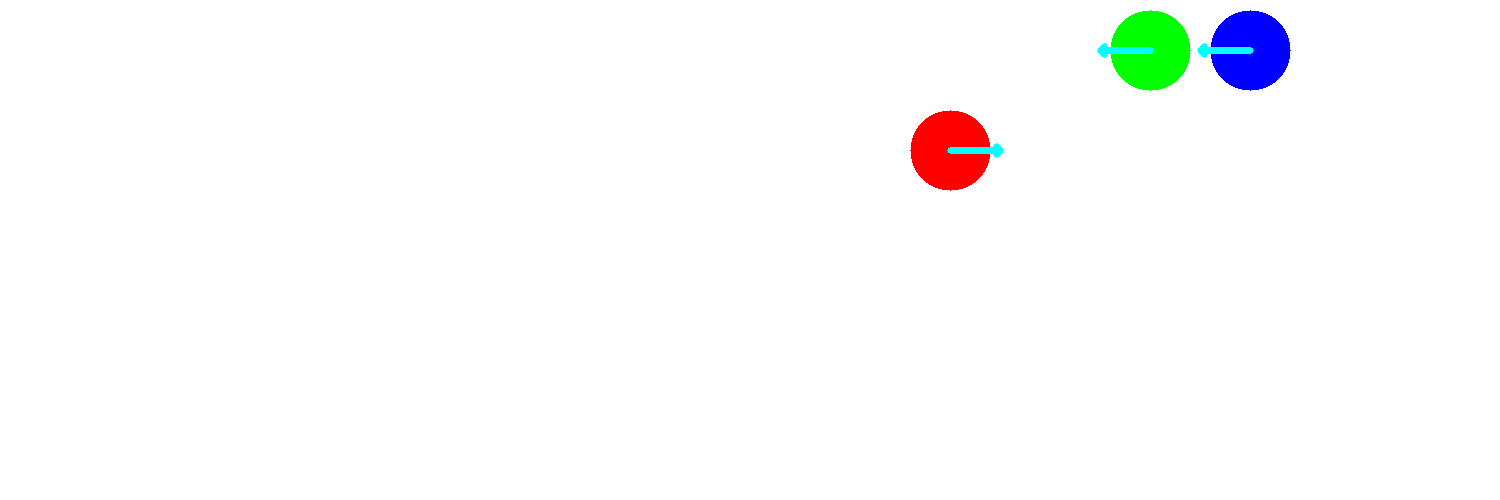
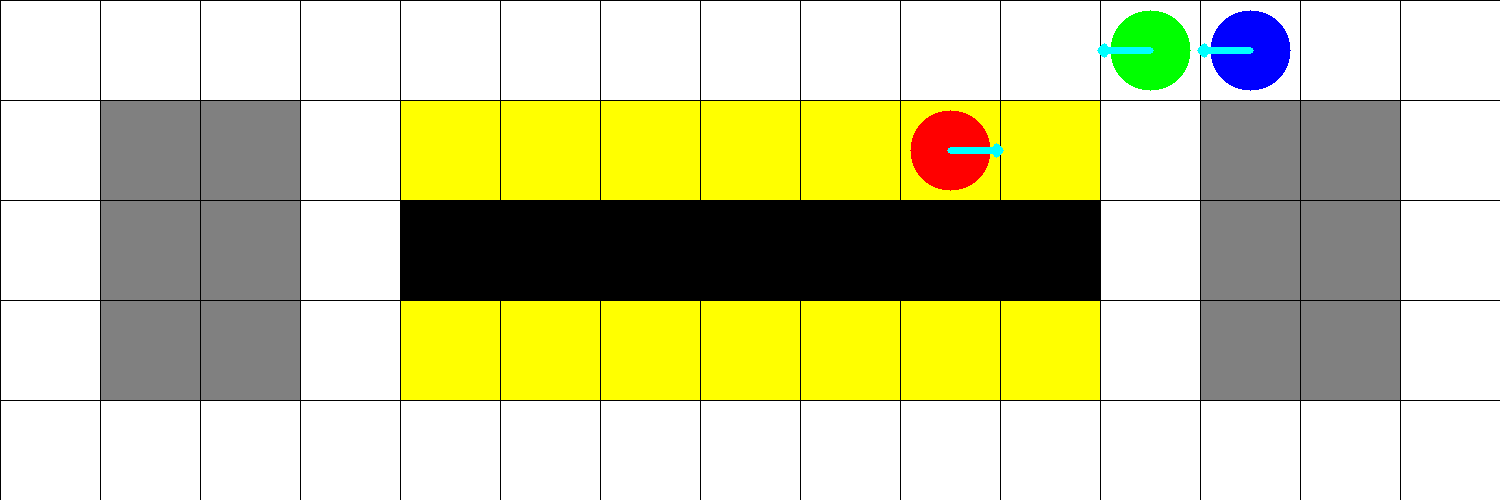
update

diff --git a/view.py b/view.py
@@ -1,14 +1,48 @@
+# 各エージェントの移動履歴（ここではエージェント1の履歴のみ実際のデータを使用し、残りはダミーデータ）
+states_agent1 = "27,3,0;27,2,1;26,2,2;25,2,3;24,2,4;24,3,5;24,0,6;25,0,7;26,0,8;26,3,9;41,3,10;56,3,11;56,2,12;55,2,13;54,2,14;53,2,15;52,2,16;51,2,17;50,2,18;49,2,19;48,2,20;"
+states_agent2 = "43,2,0;42,2,1;41,2,2;41,1,3;26,1,4;11,1,5;11,2,6;10,2,7;9,2,8;8,2,9;7,2,10;6,2,11;5,2,12;5,3,13;20,3,14;20,0,15;21,0,16;22,0,17;23,0,18;24,0,19;25,0,20;"
+states_agent3 = "57,1,0;57,1,1;42,1,2;27,1,3;12,1,4;12,2,5;12,2,6;11,2,7;10,2,8;9,2,9;8,2,10;7,2,11;7,3,12;22,3,13;22,0,14;22,1,15;7,1,16;7,2,17;6,2,18;6,3,19;21,3,20;"
+
+
 import cv2
 import numpy as np
 
-# マップのサイズ設定
-height = 5
-width = 15
+# マップのデータ
+map_data = [
+    "...............",
+    ".rr.eeeeeee.rr.",
+    ".rr.@@@@@@@.rr.",
+    ".rr.eeeeeee.rr.",
+    "..............."
+]
 
-# 各エージェントの移動履歴（ここではエージェント1の履歴のみ実際のデータを使用し、残りはダミーデータ）
-states_agent1 = "27,3,0;27,2,1;26,2,2;25,2,3;24,2,4;24,3,5;24,0,6;25,0,7;26,0,8;26,3,9;41,3,10;56,3,11;56,2,12;55,2,13;54,2,14;53,2,15;52,2,16;51,2,17;50,2,18;49,2,19;48,2,20;48,1,21;33,1,22;18,1,23;18,0,24;19,0,25;20,0,26;21,0,27;21,1,28;21,2,29;20,2,30;19,2,31;19,3,32;19,0,33;20,0,34;21,0,35;21,1,36;6,1,37;6,2,38;5,2,39;4,2,40;4,3,41;19,3,42;19,2,43;18,2,44;18,3,45;33,3,46;48,3,47;48,0,48;49,0,49;50,0,50;51,0,51;52,0,52;53,0,53;54,0,54;54,1,55;54,2,56;53,2,57;52,2,58;51,2,59;50,2,60;49,2,61;48,2,62;48,1,63;33,1,64;18,1,65;18,0,66;19,0,67;20,0,68;20,1,69;20,2,70;19,2,71;18,2,72;18,3,73;33,3,74;48,3,75;48,0,76;49,0,77;50,0,78;51,0,79;52,0,80;52,3,81;67,3,82;67,2,83;66,2,84;65,2,85;64,2,86;63,2,87;63,1,88;48,1,89;33,1,90;18,1,91;18,0,92;19,0,93;20,0,94;21,0,95;22,0,96;23,0,97;24,0,98;25,0,99;26,0,100;"
-states_agent2 = "43,2,0;42,2,1;41,2,2;41,1,3;26,1,4;11,1,5;11,2,6;10,2,7;9,2,8;8,2,9;7,2,10;6,2,11;5,2,12;5,3,13;20,3,14;20,0,15;21,0,16;22,0,17;23,0,18;24,0,19;25,0,20;26,0,21;26,3,22;41,3,23;56,3,24;56,2,25;55,2,26;54,2,27;53,2,28;52,2,29;51,2,30;50,2,31;49,2,32;48,2,33;48,1,34;33,1,35;18,1,36;18,0,37;19,0,38;20,0,39;21,0,40;22,0,41;23,0,42;24,0,43;24,1,44;9,1,45;9,2,46;8,2,47;7,2,48;6,2,49;6,3,50;21,3,51;21,0,52;22,0,53;23,0,54;24,0,55;25,0,56;26,0,57;26,3,58;41,3,59;56,3,60;71,3,61;71,2,62;70,2,63;70,1,64;55,1,65;55,0,66;56,0,67;56,1,68;41,1,69;26,1,70;11,1,71;11,2,72;10,2,73;9,2,74;9,3,75;24,3,76;24,2,77;23,2,78;22,2,79;21,2,80;20,2,81;19,2,82;18,2,83;18,3,84;33,3,85;48,3,86;48,0,87;49,0,88;50,0,89;51,0,90;51,1,91;51,2,92;50,2,93;49,2,94;48,2,95;47,2,96;47,1,97;32,1,98;17,1,99;17,0,100;"
-states_agent3 = "57,1,0;57,1,1;42,1,2;27,1,3;12,1,4;12,2,5;12,2,6;11,2,7;10,2,8;9,2,9;8,2,10;7,2,11;7,3,12;22,3,13;22,0,14;22,1,15;7,1,16;7,2,17;6,2,18;6,3,19;21,3,20;21,0,21;22,0,22;23,0,23;24,0,24;25,0,25;26,0,26;26,3,27;41,3,28;56,3,29;71,3,30;71,2,31;70,2,32;70,1,33;55,1,34;55,0,35;56,0,36;56,1,37;41,1,38;26,1,39;11,1,40;11,2,41;10,2,42;9,2,43;8,2,44;7,2,45;7,3,46;22,3,47;22,0,48;23,0,49;24,0,50;25,0,51;26,0,52;26,3,53;41,3,54;56,3,55;71,3,56;71,2,57;70,2,58;69,2,59;69,1,60;54,1,61;54,0,62;55,0,63;56,0,64;56,1,65;41,1,66;26,1,67;11,1,68;11,2,69;10,2,70;9,2,71;9,3,72;24,3,73;24,0,74;25,0,75;26,0,76;26,3,77;41,3,78;56,3,79;71,3,80;71,2,81;70,2,82;69,2,83;69,1,84;54,1,85;54,2,86;53,2,87;52,2,88;52,3,89;67,3,90;67,2,91;66,2,92;65,2,93;64,2,94;63,2,95;63,1,96;48,1,97;33,1,98;18,1,99;18,0,100;"
+# マップのサイズ設定
+height = 5  # マップの高さ
+width = 15  # マップの幅
+
+# マップの色の設定
+colors = {
+    'r': (128, 128, 128),  # 灰色
+    'e': (0, 255, 255),    # 黄色
+    '@': (0, 0, 0),        # 黒
+    '.': (255, 255, 255)   # 白
+}
+
+# マップを画像に変換し、枠線を描画する関数
+def draw_map_with_grid(image):
+    tile_size = 100  # タイルのサイズ
+    for y, row in enumerate(map_data):
+        for x, cell in enumerate(row):
+            color = colors.get(cell, (255, 255, 255))  # デフォルトは白色
+            top_left = (x * tile_size, y * tile_size)
+            bottom_right = ((x + 1) * tile_size, (y + 1) * tile_size)
+            cv2.rectangle(image, top_left, bottom_right, color, -1)  # セルを塗りつぶし
+            cv2.rectangle(image, top_left, bottom_right, (0, 0, 0), 1)  # 枠線を描画
+
+# 各エージェントの移動履歴
+#states_agent1 = "27,3,0;27,2,1;26,2,2;25,2,3;24,2,4;24,3,5;"
+#states_agent2 = "43,2,0;42,2,1;41,2,2;41,1,3;26,1,4;11,1,5;"
+#states_agent3 = "57,1,0;57,1,1;42,1,2;27,1,3;12,1,4;12,2,5;"
 
 # 各エージェントの状態をリストとしてパース
 parsed_states_agent1 = [tuple(map(int, state.split(','))) for state in states_agent1.split(';') if state]
@@ -18,12 +52,13 @@ parsed_states_agent3 = [tuple(map(int, state.split(','))) for state in states_ag
 # 画像を保存するためのフォルダを指定
 output_folder = "out1/"
 
-# 最大のステップ数を決定（全エージェントの中で最も長い移動履歴を持つもの）
+# 最大のステップ数を決定
 max_steps = max(len(parsed_states_agent1), len(parsed_states_agent2), len(parsed_states_agent3))
 
 for idx in range(max_steps):
-    # 画像を作成 (白背景)
+    # 画像を作成 (マップのグリッドを含む)
     image = np.ones((height * 100, width * 100, 3), dtype=np.uint8) * 255
+    draw_map_with_grid(image)  # マップのグリッドと枠線を描画
 
     # 各エージェントの状態を更新して描画
     for agent_id, (parsed_states, color) in enumerate(zip([parsed_states_agent1, parsed_states_agent2, parsed_states_agent3], [(0, 0, 255), (0, 255, 0), (255, 0, 0)])):

diff --git a/view_copy.py b/view_copy.py
@@ -1,0 +1,49 @@
+import cv2
+import numpy as np
+
+# マップのサイズ設定
+height = 5
+width = 15
+
+# 各エージェントの移動履歴（ここではエージェント1の履歴のみ実際のデータを使用し、残りはダミーデータ）
+states_agent1 = "27,3,0;27,2,1;26,2,2;25,2,3;24,2,4;24,3,5;"
+states_agent2 = "43,2,0;42,2,1;41,2,2;41,1,3;26,1,4;11,1,5;"
+states_agent3 = "57,1,0;57,1,1;42,1,2;27,1,3;12,1,4;12,2,5;"
+
+# 各エージェントの状態をリストとしてパース
+parsed_states_agent1 = [tuple(map(int, state.split(','))) for state in states_agent1.split(';') if state]
+parsed_states_agent2 = [tuple(map(int, state.split(','))) for state in states_agent2.split(';') if state]
+parsed_states_agent3 = [tuple(map(int, state.split(','))) for state in states_agent3.split(';') if state]
+
+# 画像を保存するためのフォルダを指定
+output_folder = "out1/"
+
+# 最大のステップ数を決定（全エージェントの中で最も長い移動履歴を持つもの）
+max_steps = max(len(parsed_states_agent1), len(parsed_states_agent2), len(parsed_states_agent3))
+
+for idx in range(max_steps):
+    # 画像を作成 (白背景)
+    image = np.ones((height * 100, width * 100, 3), dtype=np.uint8) * 255
+
+    # 各エージェントの状態を更新して描画
+    for agent_id, (parsed_states, color) in enumerate(zip([parsed_states_agent1, parsed_states_agent2, parsed_states_agent3], [(0, 0, 255), (0, 255, 0), (255, 0, 0)])):
+        if idx < len(parsed_states):
+            position, direction, _ = parsed_states[idx]
+            y = position // width
+            x = position % width
+            center = (x * 100 + 50, y * 100 + 50)
+            cv2.circle(image, center, 40, color, -1)  # エージェントごとに異なる色
+
+            # 向きに応じた矢印を描画
+            arrow_end = {
+                1: (center[0], center[1] - 50),
+                0: (center[0] + 50, center[1]),
+                3: (center[0], center[1] + 50),
+                2: (center[0] - 50, center[1])
+            }[direction]
+            cv2.arrowedLine(image, center, arrow_end, (255, 255, 0), 5)
+
+    # 画像を保存
+    output_path = f"{output_folder}step_{idx:03d}.png"
+    cv2.imwrite(output_path, image)
+
